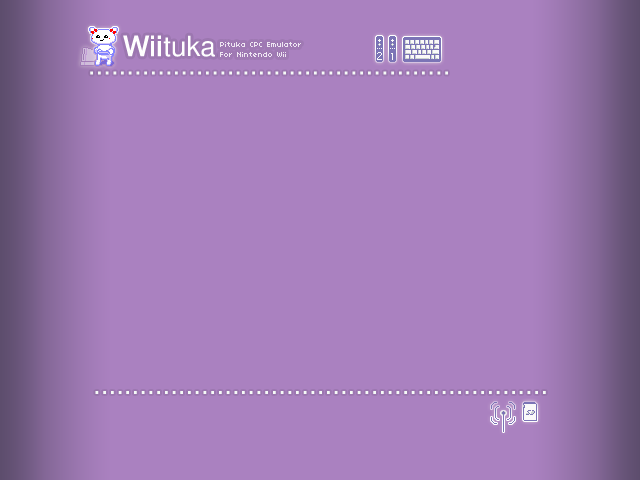
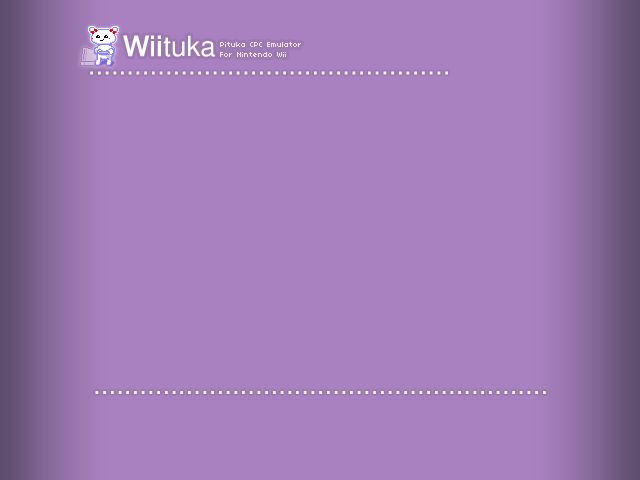
New devices status :)
git-svn-id: http://wiituka.googlecode.com/svn/trunk@15 1f7193ac-38c1-11de-8e0c-53a27eea117e

Changed region(s): [[0.5625, 0.0625, 0.7188, 0.1562], [0.75, 0.8125, 0.8438, 0.9062]]

diff --git a/source/wii/menu/menu.c b/source/wii/menu/menu.c
@@ -54,7 +54,16 @@ t_element b_snap;
 t_element b_snap_save;
 t_element b_snap_load;
 
-t_element f_devices;
+t_img f_devices[5];
+
+#define FDEV_IMAGE_FAT 0
+#define FDEV_IMAGE_NET 1
+#define FDEV_IMAGE_WM1 2
+#define FDEV_IMAGE_WM2 3
+#define FDEV_IMAGE_KEY 4
+
+static int dev_x = 374;
+static int dev_y = 32;
 
 t_fslist gamelist = { 
 			{"", SU_NONE}, 
@@ -341,6 +350,16 @@ bool ButtonsCommon (int command, sMenuEntry * current)
 
   }
 
+  if(controls.wpad1.bDown & WPAD_BUTTON_LEFT)
+    dev_x--;
+  if(controls.wpad1.bDown & WPAD_BUTTON_RIGHT)
+    dev_x++;
+  if(controls.wpad1.bDown & WPAD_BUTTON_UP)
+    dev_y--;
+  if(controls.wpad1.bDown & WPAD_BUTTON_DOWN)
+    dev_y++;
+
+
   //in pause search second wiimote
   if(WiimoteSetup(WPAD_CHAN_1) == WPAD_ERR_NONE)
 	WiiStatus.nWiimotes = 2;
@@ -598,14 +617,30 @@ bool MenuCommon (int command, int section)
 
  	  Element_SelectImg( &b_snap_load, 1 ); 
 
-	  Element_Init(&f_devices);
-	  if(!Element_allocImgs(&f_devices, 1))
-		return false;
+	  if( !LoadTexture( &f_devices[FDEV_IMAGE_FAT], devices_fat_png) )
+	  {
+	    return false;
+	  }
 
-	  if(!Element_LoadImg( &f_devices, devices_sd_png ))
-		return false;
+	  if( !LoadTexture( &f_devices[FDEV_IMAGE_NET], devices_net_png) )
+	  {
+	    return false;
+	  }
 
- 	  Element_SelectImg( &f_devices, 1 ); 
+	  if( !LoadTexture( &f_devices[FDEV_IMAGE_WM1], devices_wm1_png) )
+	  {
+	    return false;
+	  }
+
+	  if( !LoadTexture( &f_devices[FDEV_IMAGE_WM2], devices_wm2_png) )
+	  {
+	    return false;
+	  }
+
+	  if( !LoadTexture( &f_devices[FDEV_IMAGE_KEY], devices_key_png) )
+	  {
+	    return false;
+	  }
 
 
 	break;
@@ -640,6 +675,29 @@ void MenuClose(void)
    Cursor_Free(&cursor);
 
 }
+
+void ShowDevicesStatus(void)
+{
+
+ if(WiiStatus.Dev_Fat)
+      DrawTexture(&f_devices[FDEV_IMAGE_FAT], 514, 396, 0, 1, 1, 255);
+
+ if(WiiStatus.Dev_Net)
+      DrawTexture(&f_devices[FDEV_IMAGE_NET], 488, 402, 0, 1, 1, 255);
+
+ switch(WiiStatus.nWiimotes)
+ {
+      case 2:
+           DrawTexture(&f_devices[FDEV_IMAGE_WM2], 364, 32, 0, 1, 1, 255);
+      case 1:
+           DrawTexture(&f_devices[FDEV_IMAGE_WM1], 377, 32, 0, 1, 1, 255);
+ }
+
+ if(WiiStatus.Dev_Keyb)
+      DrawTexture(&f_devices[FDEV_IMAGE_KEY], 390, 34, 0, 1, 1, 255);
+
+}
+
 
 void ShowSplash (void)
 {
@@ -707,18 +765,19 @@ void ShowMenu (int nMenu)
 
   //sprintf(debugt,"DEBUG: ROM(%s) - p(%i) n(%i) ", globalRom.filename, glistposition, WiiStatus.nRoms);
 
-  sprintf(debugt,"HELP: (A) LOAD ROM + AUTORUN");
+  sprintf(debugt,"HELP: (A) LOAD ROM + AUTORUN d(%i,%i)", dev_x, dev_y);
   PrintW (100, 400, debugt);
   sprintf(debugt,"      (B) ONLY LOAD ROM");
   PrintW (100, 410, debugt);
   sprintf(debugt,"Wiituka v0.98.7");
   PrintW (20, 450, debugt);
 
-
   ButtonsCommon(PAINT, menuCurrent);
 
-
   ButtonsCommon(CHECK, menuCurrent);
+
+  ShowDevicesStatus();
+
   Element_Paint(&cursor);
 
   GRRLIB_VSync();

diff --git a/source/wii/main.c b/source/wii/main.c
@@ -129,17 +129,15 @@ void DevicesInit(void)
   printf(" ."); 
 
   if(!fatInitDefault ()){ //no usar aqui mountDev, por que la primera vez debe ser iniciado asi.
-        printf("\n MAIN: Unable to initialise FAT subsystem.  Are there any connected devices?\n  I'll continue without fat support..."); 
+        //printf("\n MAIN: Unable to initialise FAT subsystem.  Are there any connected devices?\n  I'll continue without fat support..."); 
         WiiStatus.Dev_Fat = 0;
         net_init_thread();
-        sleep(2);
   }
   else if(!CreateDirs ("fat3:"))
   {
-        printf("\n MAIN: Unable to initialise DIRS.  Please use another SD Card\n  I'll continue without fat support..."); 
+        //printf("\n MAIN: Unable to initialise DIRS.  Please use another SD Card\n  I'll continue without fat support..."); 
         WiiStatus.Dev_Fat = 0;
         net_init_thread();
-        sleep(2);
   }
   else
   {
@@ -151,6 +149,8 @@ void DevicesInit(void)
         //INIT DHCP WII LAN
         if(!WiitukaXML.disablenet)
             net_init_thread();
+        else
+            WiiStatus.Dev_Net = 0;
   }
 
   printf(" .\n"); 

diff --git a/source/wii/images/gfx_defines.h b/source/wii/images/gfx_defines.h
@@ -15,6 +15,7 @@
 
 extern const u8 gui_splash_screen_png[];
 extern const u8 gui_background_png[];
+extern const u8 gui_background_old_png[];
 extern const u8 gui_keyboard_png[];
 extern const u8 gui_keyboard_help_normal_png[];
 extern const u8 gui_keyboard_help_tobind_png[];
@@ -23,7 +24,11 @@ extern const u8 cursor_open_png[];
 extern const u8 cursor_point_png[];
 extern const u8 cursor_gun_png[];
 
-extern const u8 devices_sd_png[];
+extern const u8 devices_fat_png[];
+extern const u8 devices_net_png[];
+extern const u8 devices_wm1_png[];
+extern const u8 devices_wm2_png[];
+extern const u8 devices_key_png[];
 
 extern const u8 button_base_normal_png[];
 extern const u8 button_base_over_png[];
